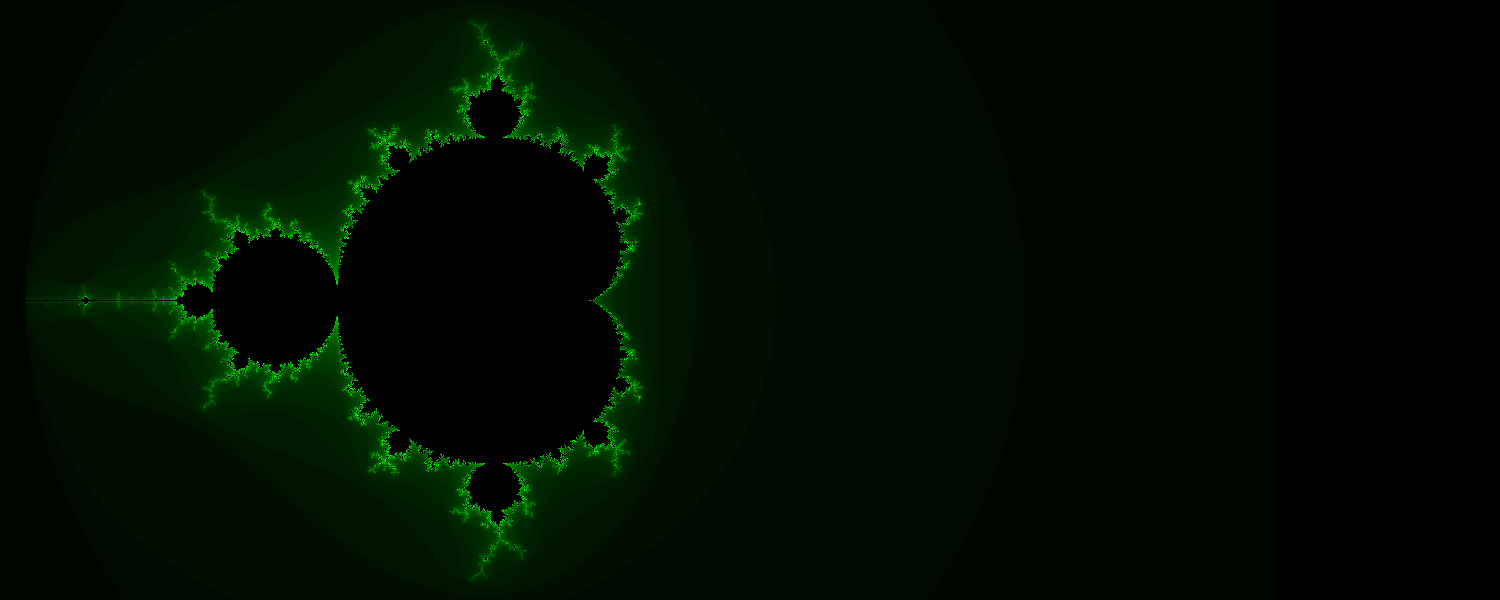
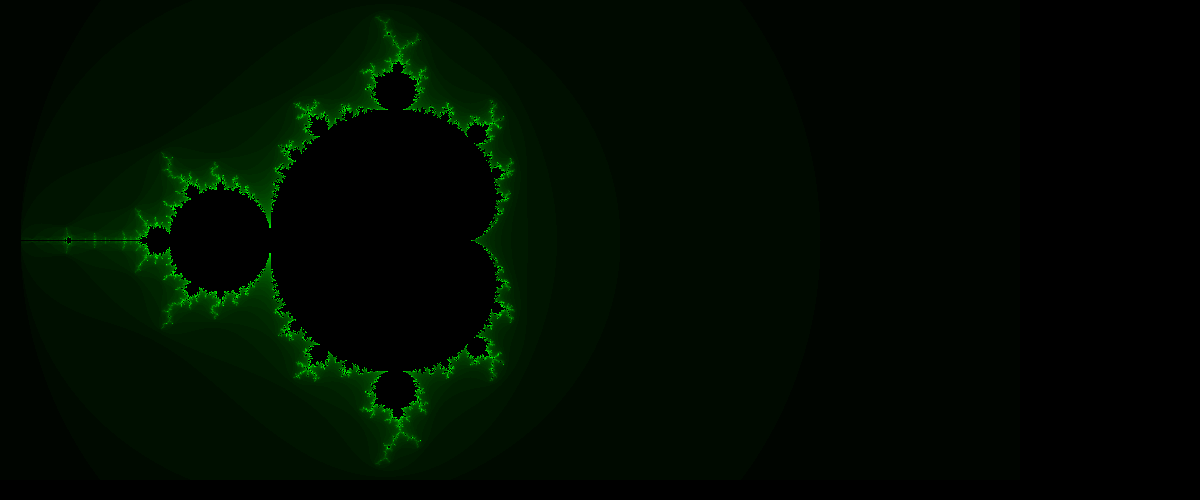
fixed resolution

Changed region(s): [[0.0308, 0.09, 0.4317, 0.99]]

diff --git a/src/fractus/View.java b/src/fractus/View.java
@@ -3,10 +3,13 @@ package fractus;
 import javafx.animation.Interpolator;
 import javafx.animation.RotateTransition;
 import javafx.application.Application;
+import javafx.collections.FXCollections;
+import javafx.collections.ObservableList;
 import javafx.event.ActionEvent;
 import javafx.scene.Group;
 import javafx.scene.Scene;
 import javafx.scene.control.Button;
+import javafx.scene.control.ComboBox;
 import javafx.scene.image.Image;
 import javafx.scene.paint.Color;
 import javafx.scene.paint.Paint;
@@ -68,7 +71,7 @@ public class View extends Application {
 
 		PhongMaterial phongMaterial = new PhongMaterial();
 		//phongMaterial.setDiffuseColor(Color.WHITE);
-		phongMaterial.setDiffuseMap(new Image("file:Fractale.png",1000 ,1000,true,true));
+		phongMaterial.setDiffuseMap(new Image("file:Fractale.png",1200 ,500,false,false));
 		
 		globe.getSphere().setMaterial(phongMaterial);
 		
@@ -111,9 +114,7 @@ public class View extends Application {
 		rotate.setInterpolator(Interpolator.LINEAR);
 		PauseButton.setOnAction((ActionEvent e)->{rotate.pause();});
 		playButton.setOnAction((ActionEvent e)-> {rotate.play();});
-		zoomButton.setOnAction((ActionEvent e)->{fracMod.setZoom(250);});
-
-			
+		zoomButton.setOnAction((ActionEvent e)->{fracMod.setZoom(250);});			
 
 		return rotate;
 	}

diff --git a/src/fractus/FractaleModele.java b/src/fractus/FractaleModele.java
@@ -5,9 +5,9 @@ import java.util.Observable;
 
 public class FractaleModele extends Observable {	
 	private Picture pic ;
-	private int resoX = 1500 ;
-	private int resoY = 600	 ; 
-	int zoom = 250 ;
+	private int resoX = 1200 ;
+	private int resoY = 500; 
+	int zoom = 200 ;
 
 	public FractaleModele() {
 		pic = new Picture(resoX,resoY);
@@ -20,7 +20,7 @@ public class FractaleModele extends Observable {
     	double y2 = 1.2;
     	int max_it = 50;
     	    	
-    	double imgX = (x2 - x1)*zoom;
+    	double imgX = (x2- x1)*zoom;
     	double imgY = (y2 - y1)*zoom;
     	
     	for(int x = 0 ; x < imgX;x++)
@@ -71,6 +71,11 @@ public class FractaleModele extends Observable {
     public void setZoom(int zoom) {
     	this.zoom = zoom ;
     	createMandelBrot();
+    }
+    
+    public void incZoom(){
+    	zoom +=250;
+    	
     }
     public int getZoom() {
     	return zoom;
